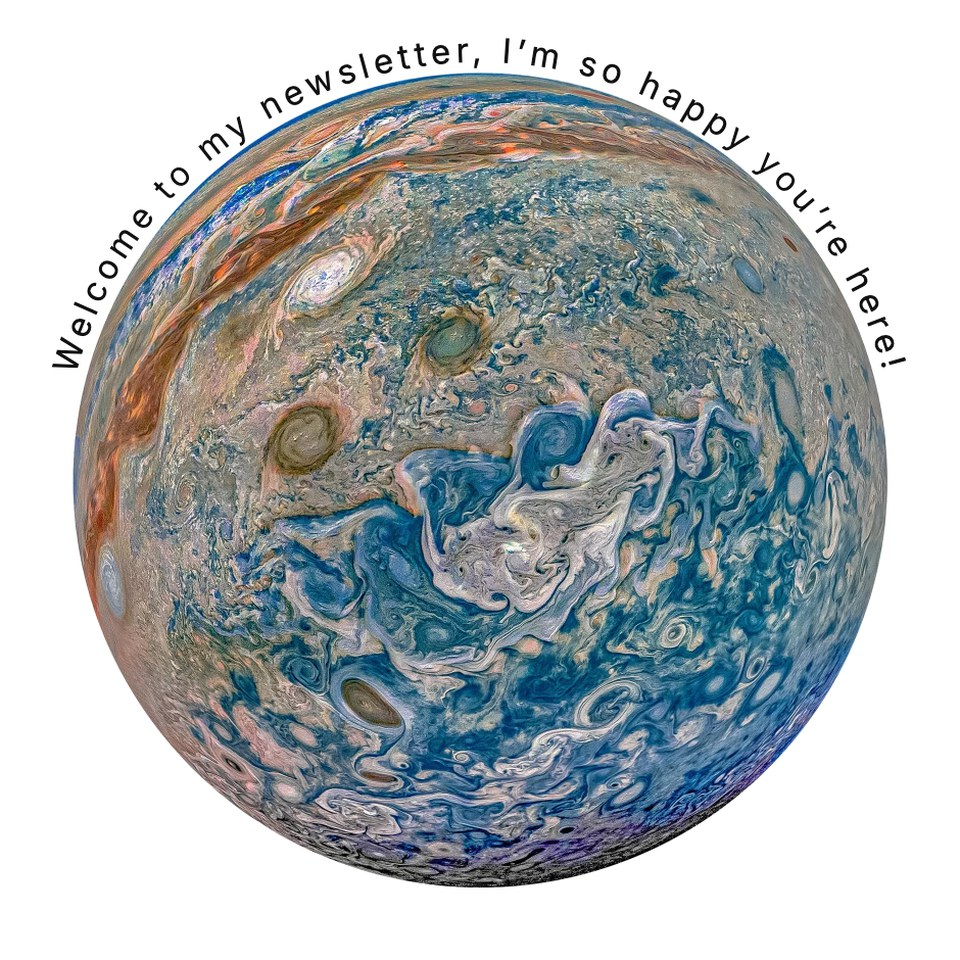
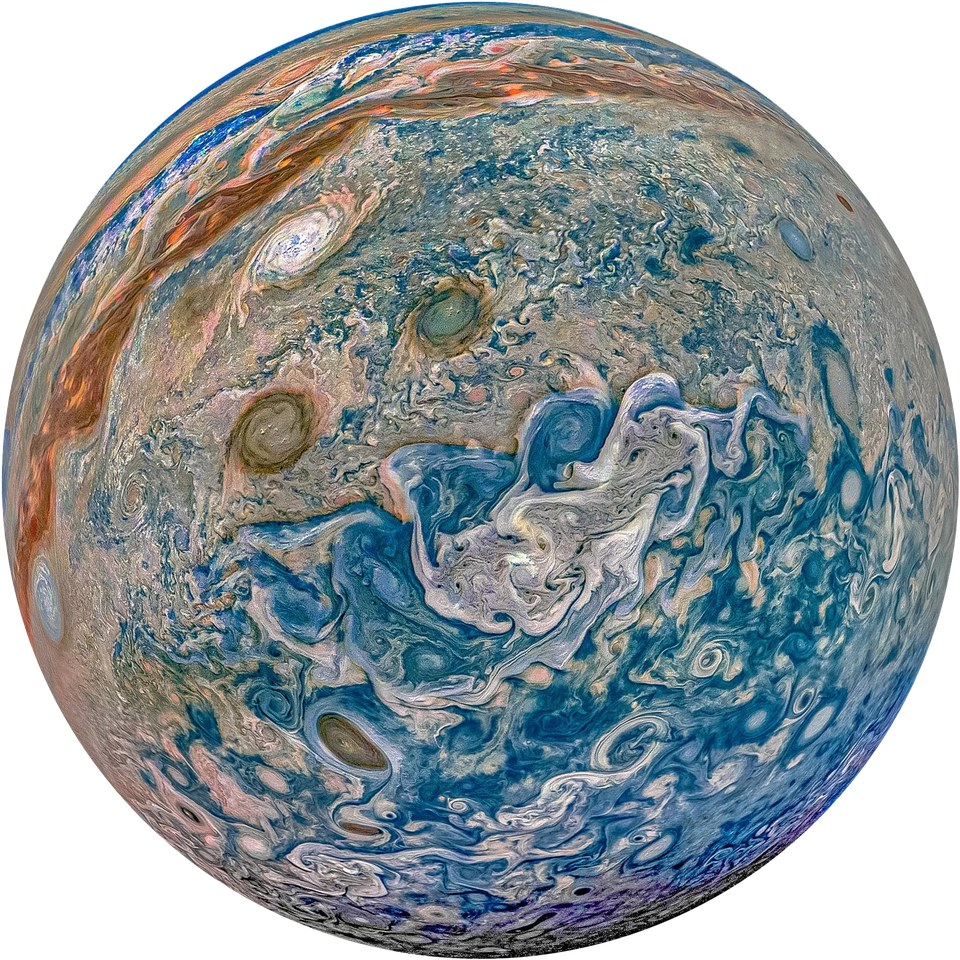
Welcome email: just Jupiter; subject Welcome to Cecily's Newsletter

diff --git a/emails/welcome.html b/emails/welcome.html
@@ -1,8 +1,6 @@
 <!doctype html>
 <!--
-  Welcome email: one image, Jupiter with "Welcome to my newsletter, I'm so happy you're here!"
-  set in Inter around it. The words are drawn into the image (welcome-jupiter.jpg) because email
-  apps strip curved text and don't load web fonts. Source for the image: welcome-jupiter-source.html.
+  Welcome email: Jupiter, front and centre, nothing else. Subject: "Welcome to Cecily's Newsletter".
   When sending, the image is attached inline (cid:welcome-jupiter) so it shows without a website.
 -->
 <html lang="en">
@@ -10,14 +8,14 @@
 <meta charset="utf-8">
 <meta name="viewport" content="width=device-width, initial-scale=1">
 <meta name="color-scheme" content="light only">
-<title>Welcome</title>
+<title>Welcome to Cecily&rsquo;s Newsletter</title>
 </head>
 <body style="margin:0;padding:0;background:#ffffff;">
   <table role="presentation" width="100%" cellpadding="0" cellspacing="0" border="0" style="background:#ffffff;">
     <tr>
-      <td align="center" style="padding:40px 16px;">
+      <td align="center" style="padding:48px 16px;">
         <img src="welcome-jupiter.jpg" width="360" height="360"
-             alt="Welcome to my newsletter, I&rsquo;m so happy you&rsquo;re here!"
+             alt="Jupiter"
              style="display:block;width:360px;max-width:100%;height:auto;border:0;outline:none;">
       </td>
     </tr>
